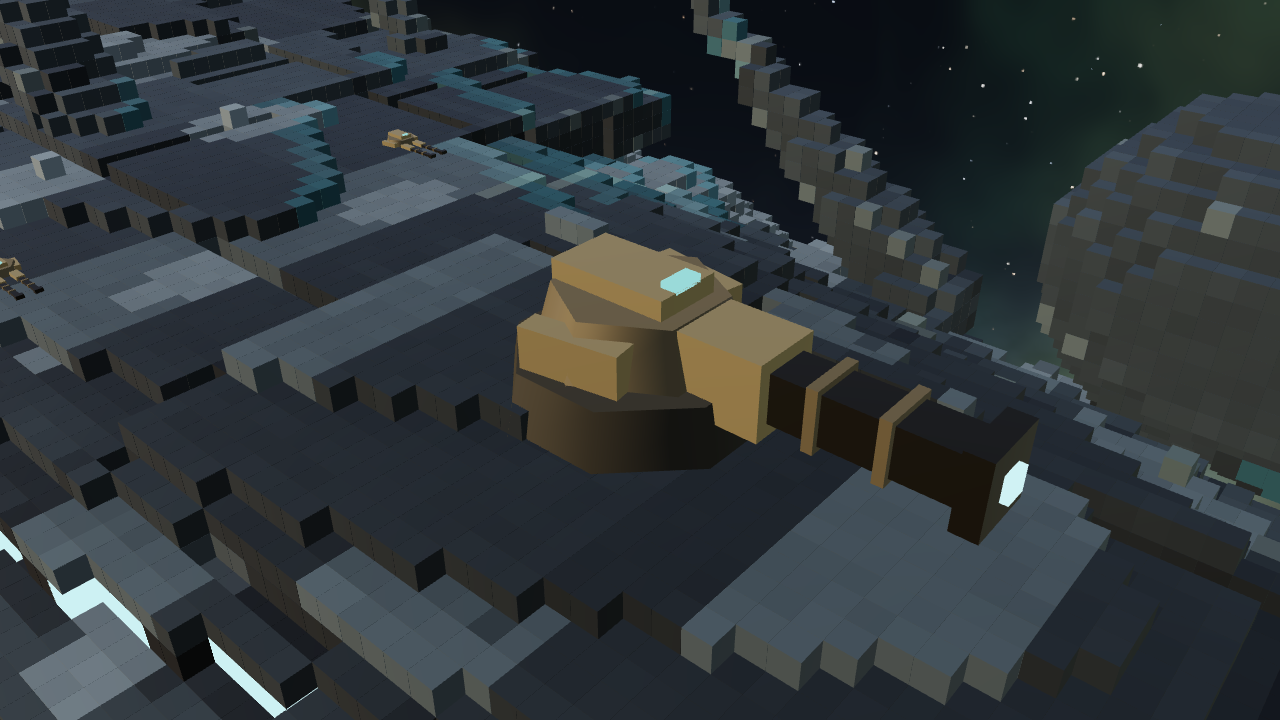
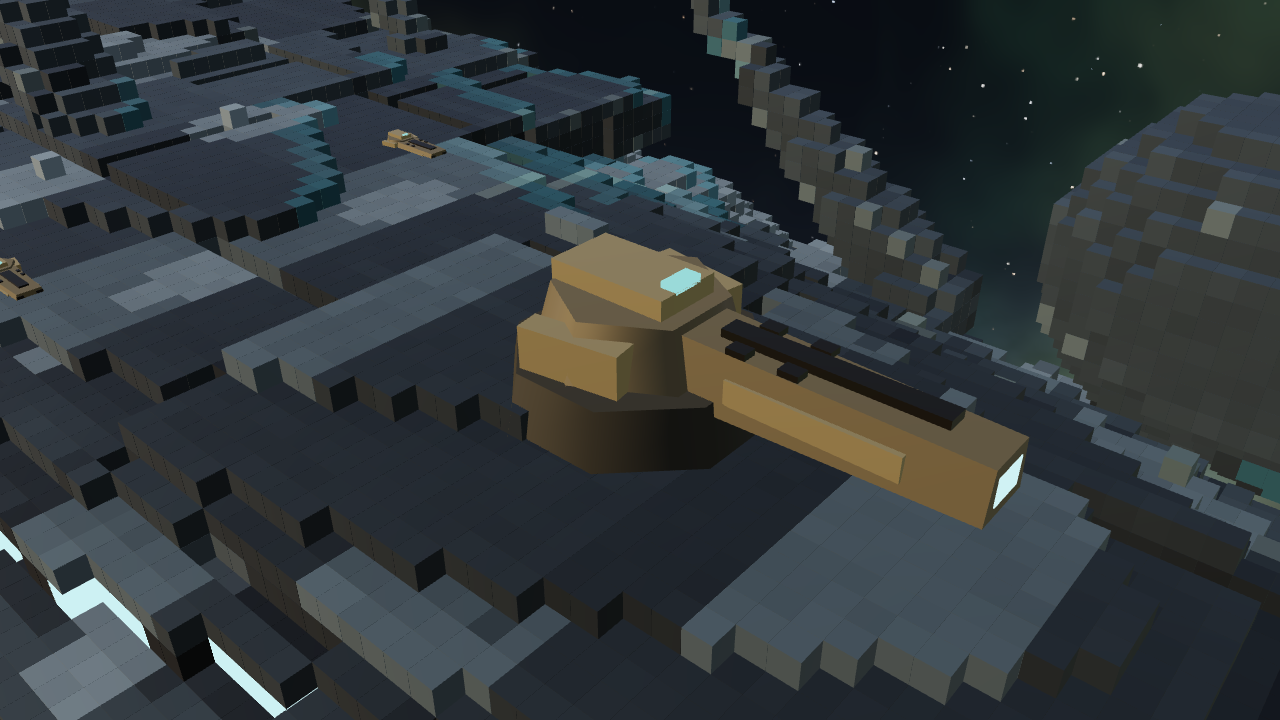
Replace turret barrels with armored weapon pods

Changed region(s): [[0.5312, 0.3972, 0.8125, 0.7639], [0.0, 0.3667, 0.0312, 0.4278], [0.3125, 0.1833, 0.3438, 0.2139]]

diff --git a/index.html b/index.html
@@ -4930,30 +4930,54 @@ function makeTurret(s, t) {
     instance.rotation.set(0, side * 0.16, 0); instance.updateMatrix(); cheeks.setMatrixAt(i, instance.matrix);
   });
   head.add(cheeks);
-  const th = (beam ? 0.2 : cls === 'S' ? 0.1 : 0.14) * D;
-  const receivers = new THREE.InstancedMesh(new THREE.BoxGeometry(th * 1.55, th * 1.55, bl * 0.32), mTrim, xs.length);
-  const collars = new THREE.InstancedMesh(new THREE.BoxGeometry(th * 1.25, th * 1.25, 0.045 * D), mHead, xs.length * 2);
-  instance.rotation.set(0, 0, 0);
-  xs.forEach((x, i) => {
-    instance.position.set(x * D, 0, -(0.3 * D + bl * 0.16)); instance.updateMatrix(); receivers.setMatrixAt(i, instance.matrix);
-    [0.48, 0.72].forEach((along, j) => {
-      instance.position.set(x * D, 0, -(0.3 * D + bl * along)); instance.updateMatrix(); collars.setMatrixAt(i * 2 + j, instance.matrix);
-    });
-  });
-  head.add(receivers, collars);
-  const muzzles = [];
-  for (const x of xs) {
-    const b = new THREE.Mesh(new THREE.BoxGeometry(th, th, bl), mBar);
-    b.position.set(x * D, 0, -(0.3 * D + bl / 2)); head.add(b);
-    const brake = new THREE.Mesh(new THREE.BoxGeometry(th * 1.5, th * 1.5, 0.1 * D), mBar);
-    brake.position.set(x * D, 0, -(0.3 * D + bl)); head.add(brake);
-    muzzles.push(new THREE.Vector3(x * D, 0, -(0.3 * D + bl + 0.05 * D)));
+  // One faceted weapon pod replaces the exposed barrels and muzzle brakes.
+  // Its front plane is exactly the existing firing plane; the dark apertures
+  // mark the individual emitters without moving their logical muzzle points.
+  const front = -(0.3 * D + bl + 0.05 * D), rear = -0.22 * D;
+  const podFront = front + 0.004 * D; // keep the apertures just ahead of the armor face
+  const podWidth = (beam ? 0.32 : 0.64) * D, podHeight = 0.26 * D, podLength = rear - podFront;
+  const podGeometry = new THREE.BoxGeometry(podWidth, podHeight, podLength);
+  const vertices = podGeometry.attributes.position;
+  for (let i = 0; i < vertices.count; i++) {
+    // Taper the forward armor to create a compact, directional silhouette.
+    if (vertices.getZ(i) < 0) {
+      vertices.setX(i, vertices.getX(i) * 0.84);
+      vertices.setY(i, vertices.getY(i) * 0.78);
+    }
+    if (vertices.getY(i) > 0) vertices.setX(i, vertices.getX(i) * 0.82);
   }
-  if (beam) { const lens = new THREE.Mesh(new THREE.BoxGeometry(0.1 * D, 0.1 * D, 0.1 * D), new THREE.MeshBasicMaterial({ color: new THREE.Color(w.color).multiplyScalar(1.6) })); lens.position.copy(muzzles[0]).z += 0.02 * D; head.add(lens); }
+  vertices.needsUpdate = true; podGeometry.computeVertexNormals();
+  const pod = new THREE.Mesh(podGeometry, mHead);
+  pod.position.z = (podFront + rear) / 2; head.add(pod);
+  const sidePanels = new THREE.InstancedMesh(new THREE.BoxGeometry(0.025 * D, 0.1 * D, podLength * 0.55), mTrim, 2);
+  instance.rotation.set(0, 0, 0);
+  [-1, 1].forEach((side, i) => {
+    instance.position.set(side * podWidth * 0.42, -0.015 * D, (front + rear) / 2);
+    instance.updateMatrix(); sidePanels.setMatrixAt(i, instance.matrix);
+  });
+  head.add(sidePanels);
+  const rail = new THREE.Mesh(new THREE.BoxGeometry(podWidth * 0.28, 0.035 * D, podLength * 0.7), mBar);
+  rail.position.set(0, podHeight / 2 + 0.01 * D, (front + rear) / 2); head.add(rail);
+  const vents = new THREE.InstancedMesh(new THREE.BoxGeometry(0.06 * D, 0.025 * D, 0.08 * D), mBar, 4);
+  instance.rotation.set(0, 0, 0);
+  for (let i = 0; i < 4; i++) {
+    instance.position.set((i < 2 ? -1 : 1) * podWidth * 0.31, podHeight / 2 + 0.008 * D, rear - podLength * (0.25 + (i % 2) * 0.17));
+    instance.updateMatrix(); vents.setMatrixAt(i, instance.matrix);
+  }
+  head.add(vents);
+  const muzzles = [];
+  const mEmitter = beam ? new THREE.MeshBasicMaterial({ color: new THREE.Color(w.color).multiplyScalar(1.6) }) : mBar;
+  for (const x of xs) {
+    const width = (beam ? 0.16 : 0.12) * D;
+    const aperture = new THREE.Mesh(new THREE.BoxGeometry(width, 0.11 * D, 0.06 * D), mEmitter);
+    aperture.position.set(x * D, 0, front + 0.03 * D);
+    aperture.userData.turretMuzzleFace = true; head.add(aperture);
+    muzzles.push(new THREE.Vector3(x * D, 0, front));
+  }
   g.position.set(t.pos[0], t.pos[1], t.pos[2]);
   if (t.side < 0) g.rotation.z = Math.PI;
   s.group.add(g);
-  return { def: t, w, wid: t.w, comp: t.comp, cls, dia: D, aimY: 0.3 * referenceD * t.side, group: g, head, mats: [mBase, mHead, mBar, mTrim, mLight], ammo: t.ammo ?? w.ammo ?? Infinity, ammoMax: t.ammo ?? w.ammo ?? Infinity, cool: Math.random() * 0.3, tgt: null, thinkT: Math.random() * 0.3, muzzles, mi: 0, muzzle: bl / 1.4 + 0.3 * D / 1.4, q: new THREE.Quaternion(), fired: 0, lastErr: 0, dead: false, dry: false };
+  return { def: t, w, wid: t.w, comp: t.comp, cls, dia: D, aimY: 0.3 * referenceD * t.side, group: g, head, mats: [mBase, mHead, mBar, mTrim, mLight, ...(beam ? [mEmitter] : [])], ammo: t.ammo ?? w.ammo ?? Infinity, ammoMax: t.ammo ?? w.ammo ?? Infinity, cool: Math.random() * 0.3, tgt: null, thinkT: Math.random() * 0.3, muzzles, mi: 0, muzzle: bl / 1.4 + 0.3 * D / 1.4, q: new THREE.Quaternion(), fired: 0, lastErr: 0, dead: false, dry: false };
 }
 function turretMuzzle(T, out) {                 // world position of the next barrel tip (alternates between twin barrels)
   const m = T.muzzles[T.mi++ % T.muzzles.length];

diff --git a/src/60_weapons.js b/src/60_weapons.js
@@ -602,30 +602,54 @@ function makeTurret(s, t) {
     instance.rotation.set(0, side * 0.16, 0); instance.updateMatrix(); cheeks.setMatrixAt(i, instance.matrix);
   });
   head.add(cheeks);
-  const th = (beam ? 0.2 : cls === 'S' ? 0.1 : 0.14) * D;
-  const receivers = new THREE.InstancedMesh(new THREE.BoxGeometry(th * 1.55, th * 1.55, bl * 0.32), mTrim, xs.length);
-  const collars = new THREE.InstancedMesh(new THREE.BoxGeometry(th * 1.25, th * 1.25, 0.045 * D), mHead, xs.length * 2);
-  instance.rotation.set(0, 0, 0);
-  xs.forEach((x, i) => {
-    instance.position.set(x * D, 0, -(0.3 * D + bl * 0.16)); instance.updateMatrix(); receivers.setMatrixAt(i, instance.matrix);
-    [0.48, 0.72].forEach((along, j) => {
-      instance.position.set(x * D, 0, -(0.3 * D + bl * along)); instance.updateMatrix(); collars.setMatrixAt(i * 2 + j, instance.matrix);
-    });
-  });
-  head.add(receivers, collars);
-  const muzzles = [];
-  for (const x of xs) {
-    const b = new THREE.Mesh(new THREE.BoxGeometry(th, th, bl), mBar);
-    b.position.set(x * D, 0, -(0.3 * D + bl / 2)); head.add(b);
-    const brake = new THREE.Mesh(new THREE.BoxGeometry(th * 1.5, th * 1.5, 0.1 * D), mBar);
-    brake.position.set(x * D, 0, -(0.3 * D + bl)); head.add(brake);
-    muzzles.push(new THREE.Vector3(x * D, 0, -(0.3 * D + bl + 0.05 * D)));
+  // One faceted weapon pod replaces the exposed barrels and muzzle brakes.
+  // Its front plane is exactly the existing firing plane; the dark apertures
+  // mark the individual emitters without moving their logical muzzle points.
+  const front = -(0.3 * D + bl + 0.05 * D), rear = -0.22 * D;
+  const podFront = front + 0.004 * D; // keep the apertures just ahead of the armor face
+  const podWidth = (beam ? 0.32 : 0.64) * D, podHeight = 0.26 * D, podLength = rear - podFront;
+  const podGeometry = new THREE.BoxGeometry(podWidth, podHeight, podLength);
+  const vertices = podGeometry.attributes.position;
+  for (let i = 0; i < vertices.count; i++) {
+    // Taper the forward armor to create a compact, directional silhouette.
+    if (vertices.getZ(i) < 0) {
+      vertices.setX(i, vertices.getX(i) * 0.84);
+      vertices.setY(i, vertices.getY(i) * 0.78);
+    }
+    if (vertices.getY(i) > 0) vertices.setX(i, vertices.getX(i) * 0.82);
   }
-  if (beam) { const lens = new THREE.Mesh(new THREE.BoxGeometry(0.1 * D, 0.1 * D, 0.1 * D), new THREE.MeshBasicMaterial({ color: new THREE.Color(w.color).multiplyScalar(1.6) })); lens.position.copy(muzzles[0]).z += 0.02 * D; head.add(lens); }
+  vertices.needsUpdate = true; podGeometry.computeVertexNormals();
+  const pod = new THREE.Mesh(podGeometry, mHead);
+  pod.position.z = (podFront + rear) / 2; head.add(pod);
+  const sidePanels = new THREE.InstancedMesh(new THREE.BoxGeometry(0.025 * D, 0.1 * D, podLength * 0.55), mTrim, 2);
+  instance.rotation.set(0, 0, 0);
+  [-1, 1].forEach((side, i) => {
+    instance.position.set(side * podWidth * 0.42, -0.015 * D, (front + rear) / 2);
+    instance.updateMatrix(); sidePanels.setMatrixAt(i, instance.matrix);
+  });
+  head.add(sidePanels);
+  const rail = new THREE.Mesh(new THREE.BoxGeometry(podWidth * 0.28, 0.035 * D, podLength * 0.7), mBar);
+  rail.position.set(0, podHeight / 2 + 0.01 * D, (front + rear) / 2); head.add(rail);
+  const vents = new THREE.InstancedMesh(new THREE.BoxGeometry(0.06 * D, 0.025 * D, 0.08 * D), mBar, 4);
+  instance.rotation.set(0, 0, 0);
+  for (let i = 0; i < 4; i++) {
+    instance.position.set((i < 2 ? -1 : 1) * podWidth * 0.31, podHeight / 2 + 0.008 * D, rear - podLength * (0.25 + (i % 2) * 0.17));
+    instance.updateMatrix(); vents.setMatrixAt(i, instance.matrix);
+  }
+  head.add(vents);
+  const muzzles = [];
+  const mEmitter = beam ? new THREE.MeshBasicMaterial({ color: new THREE.Color(w.color).multiplyScalar(1.6) }) : mBar;
+  for (const x of xs) {
+    const width = (beam ? 0.16 : 0.12) * D;
+    const aperture = new THREE.Mesh(new THREE.BoxGeometry(width, 0.11 * D, 0.06 * D), mEmitter);
+    aperture.position.set(x * D, 0, front + 0.03 * D);
+    aperture.userData.turretMuzzleFace = true; head.add(aperture);
+    muzzles.push(new THREE.Vector3(x * D, 0, front));
+  }
   g.position.set(t.pos[0], t.pos[1], t.pos[2]);
   if (t.side < 0) g.rotation.z = Math.PI;
   s.group.add(g);
-  return { def: t, w, wid: t.w, comp: t.comp, cls, dia: D, aimY: 0.3 * referenceD * t.side, group: g, head, mats: [mBase, mHead, mBar, mTrim, mLight], ammo: t.ammo ?? w.ammo ?? Infinity, ammoMax: t.ammo ?? w.ammo ?? Infinity, cool: Math.random() * 0.3, tgt: null, thinkT: Math.random() * 0.3, muzzles, mi: 0, muzzle: bl / 1.4 + 0.3 * D / 1.4, q: new THREE.Quaternion(), fired: 0, lastErr: 0, dead: false, dry: false };
+  return { def: t, w, wid: t.w, comp: t.comp, cls, dia: D, aimY: 0.3 * referenceD * t.side, group: g, head, mats: [mBase, mHead, mBar, mTrim, mLight, ...(beam ? [mEmitter] : [])], ammo: t.ammo ?? w.ammo ?? Infinity, ammoMax: t.ammo ?? w.ammo ?? Infinity, cool: Math.random() * 0.3, tgt: null, thinkT: Math.random() * 0.3, muzzles, mi: 0, muzzle: bl / 1.4 + 0.3 * D / 1.4, q: new THREE.Quaternion(), fired: 0, lastErr: 0, dead: false, dry: false };
 }
 function turretMuzzle(T, out) {                 // world position of the next barrel tip (alternates between twin barrels)
   const m = T.muzzles[T.mi++ % T.muzzles.length];

diff --git a/tools/tests/turret_scale_t.py b/tools/tests/turret_scale_t.py
@@ -23,7 +23,7 @@ JS = r'''id=>{
  }
  return {id,length:s.def.length,voxel:vs,turrets:s.turrets.map(t=>{
   const tip=s.group.worldToLocal(t.head.localToWorld(t.muzzles[0].clone())),aim=s.group.worldToLocal(t.aimY===undefined?t.head.getWorldPosition(new T.Vector3()):t.group.localToWorld(new T.Vector3(0,t.aimY,0)));
-  const brake=t.head.children.find(o=>o.isMesh&&o.geometry?.parameters?.depth===.1*t.dia);
+  const brake=t.head.children.find(o=>o.isMesh&&o.userData.turretMuzzleFace);
   const barrelTip=brake?brake.position.z-brake.geometry.parameters.depth/2:null;
   let lift=0;for(;lift<40;lift+=vs*.25){const q=tip.clone();q.y+=t.def.side*lift;const i=Math.floor((q.x+A.hx)/vs),j=Math.floor((q.y+A.hy)/vs),k=Math.floor((q.z+A.hz)/vs);if(i<0||j<0||k<0||i>=A.nx||j>=A.ny||k>=A.nz||!V.solid[(i*A.ny+j)*A.nz+k])break;}
   return {cls:t.cls,weapon:t.wid,dia:+t.dia.toFixed(4),cssPixelsAt300:+(t.dia*390/(600*Math.tan(75*Math.PI/360))).toFixed(3),lowRenderPixelsAt300:+(t.dia*390/(1800*Math.tan(75*Math.PI/360))).toFixed(3),tip:tip.toArray(),aim:aim.toArray(),clearance:clearance(tip),lift:+lift.toFixed(3),tipMatch:barrelTip===null?false:Math.abs(barrelTip-t.muzzles[0].z)<1e-6};
